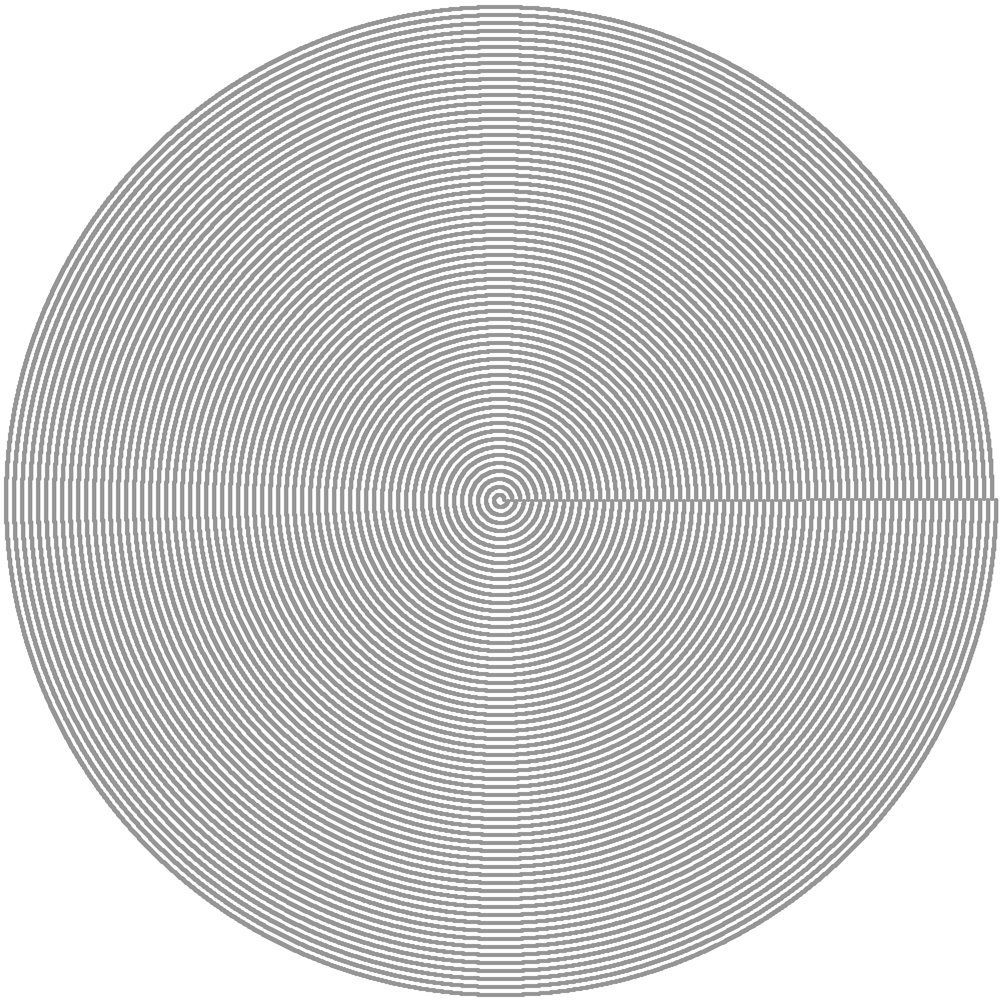
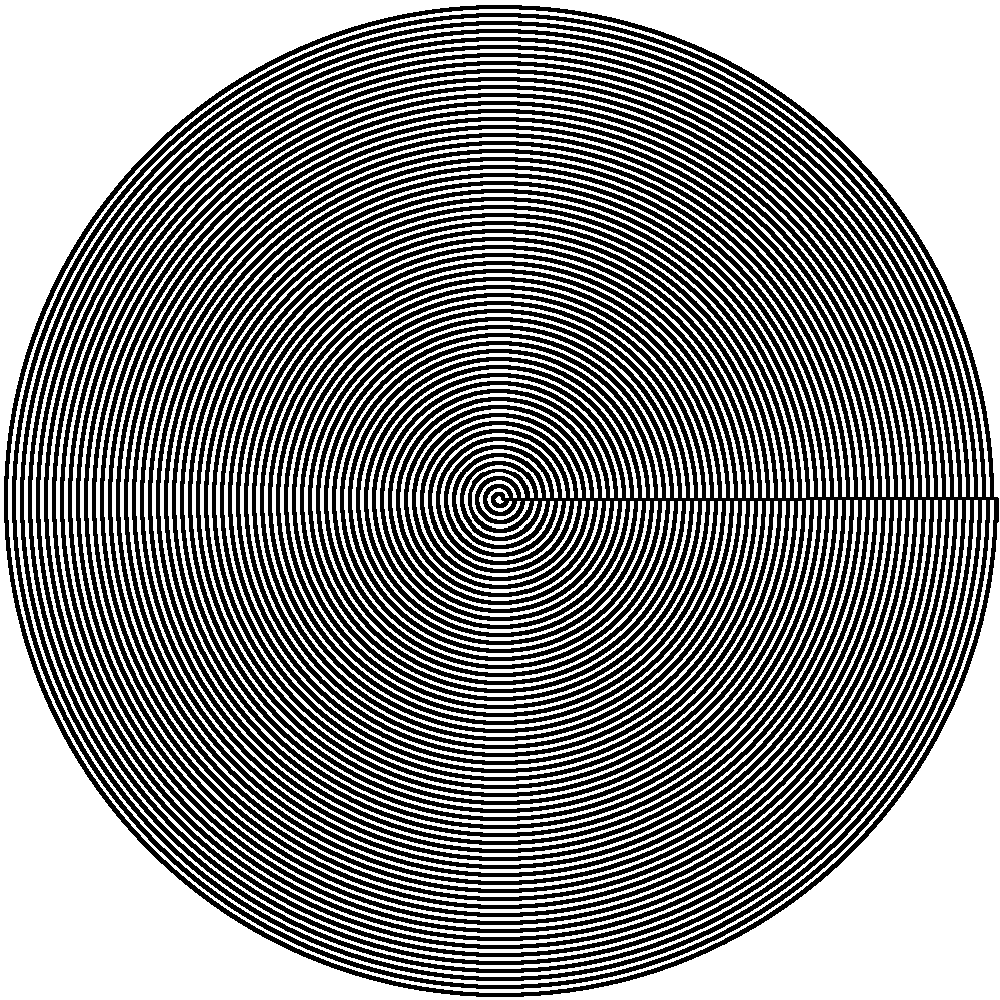
tweaked generation of preview

diff --git a/blackstripesMK2/webbased_preview/gen_webbased_preview.py b/blackstripesMK2/webbased_preview/gen_webbased_preview.py
@@ -146,40 +146,43 @@ class Preview:
 
     def loadMasks(self):
         self.masks = []
-        im = Image.open("masks/black_even_mask.png")
+        im = Image.open("masks/black_even_mask.png").convert("L")
         self.masks.append(np.asarray(im))
-        im = Image.open("masks/black_odd_mask.png")
+        im = Image.open("masks/black_odd_mask.png").convert("L")
         self.masks.append(np.asarray(im))
-        im = Image.open("masks/red_even_mask.png")
+        im = Image.open("masks/red_even_mask.png").convert("L")
         self.masks.append(np.asarray(im))
-        im = Image.open("masks/red_odd_mask.png")
+        im = Image.open("masks/red_odd_mask.png").convert("L")
         self.masks.append(np.asarray(im))
-        im = Image.open("masks/grey_even_mask.png")
+        im = Image.open("masks/grey_even_mask.png").convert("L")
         self.masks.append(np.asarray(im))
-        im = Image.open("masks/grey_odd_mask.png")
+        im = Image.open("masks/grey_odd_mask.png").convert("L")
         self.masks.append(np.asarray(im))
 
     def preview(self,levels):
         layers = []
-        r = self.numpy_im * 0
-        g = self.numpy_im * 0
-        b = self.numpy_im * 0
         i = 0
         for l in levels[0]:
             cr = (self.numpy_im > l) * 255
-            cg = (self.numpy_im > l) * 255
-            cb = (self.numpy_im > l) * 255
-            a = np.dstack((cr,cg,cb))
-            a = a + self.masks[i]
+            a = cr + self.masks[i]
             a = np.clip(a,0,255)
             a = np.uint8(a)
             layers.append(a)
+            # t = Image.fromarray(a)
+            # t.save(str(i)+"_preview.png")
             i += 1
 
         layers.reverse()
         bg = layers[0]
+        counter = 1
         for layer in layers[1:]:
+            print counter
             bg = np.where(layer != 255,layer,bg)
+            if counter < 2:
+                bg[bg==0] = 200
+            elif counter < 4:
+                bg[bg==0] = 75
+            counter += 1
 
         t = Image.fromarray(bg)
         t.save("preview.png")
